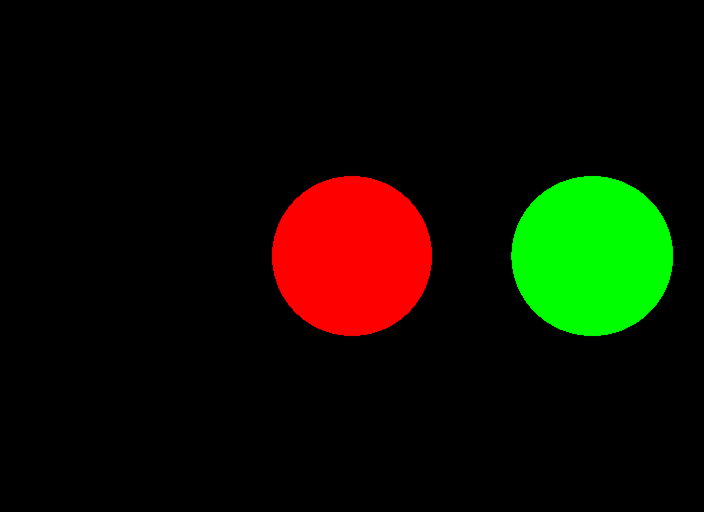
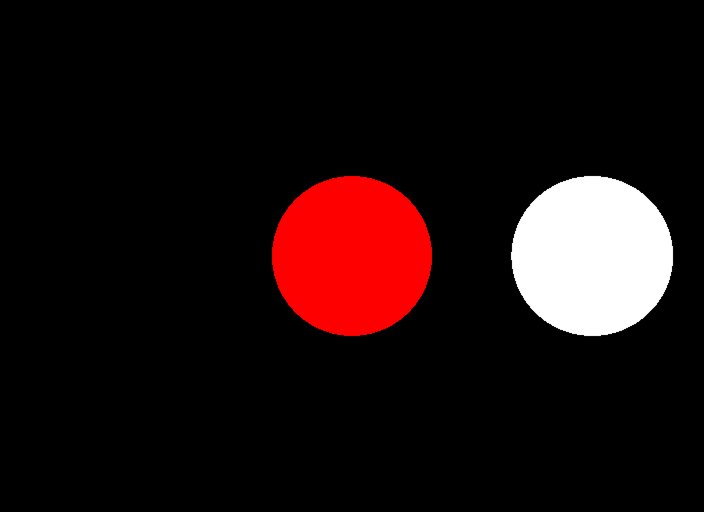
slightly better preview

Changed region(s): [[0.7188, 0.3438, 0.9688, 0.6562]]

diff --git a/src/bin/gammaray.rs b/src/bin/gammaray.rs
@@ -17,7 +17,7 @@ pub fn main() {
         &core::Mat::translation(&core::Vec::new(0.0, 0.0, -100.0)),
         5.0);
     let s2 = prim::Sphere::new(
-        &core::Vec::green(),
+        &core::Vec::one(),
         &core::Mat::translation(&core::Vec::new(15.0, 0.0, -100.0)),
         5.0);
 
